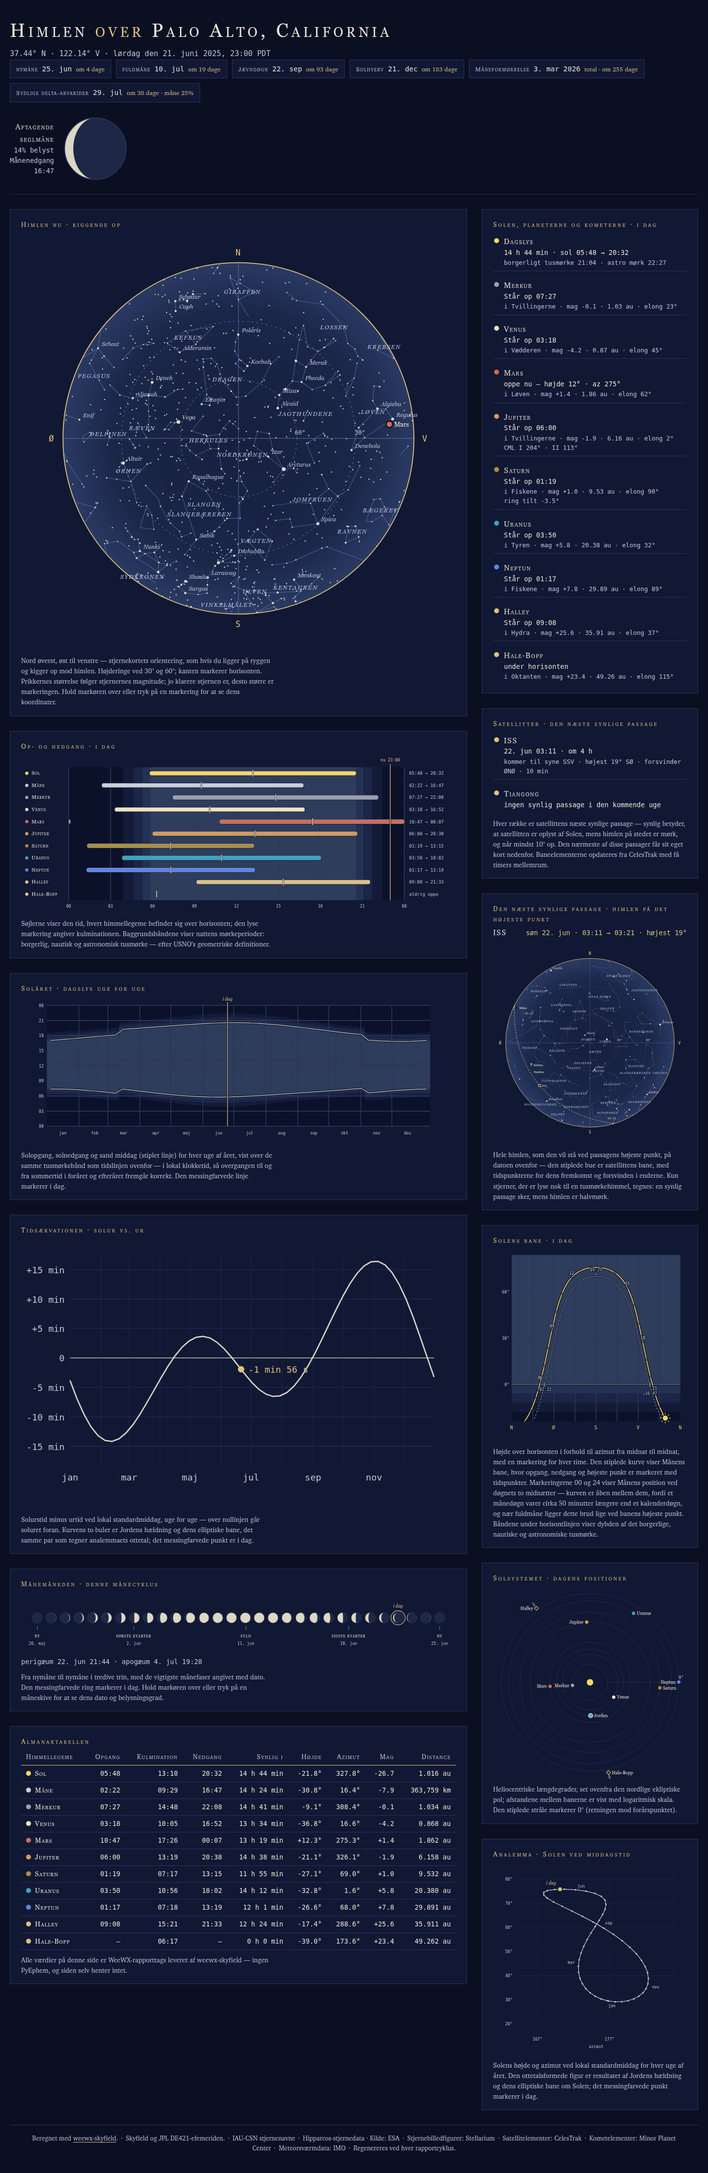
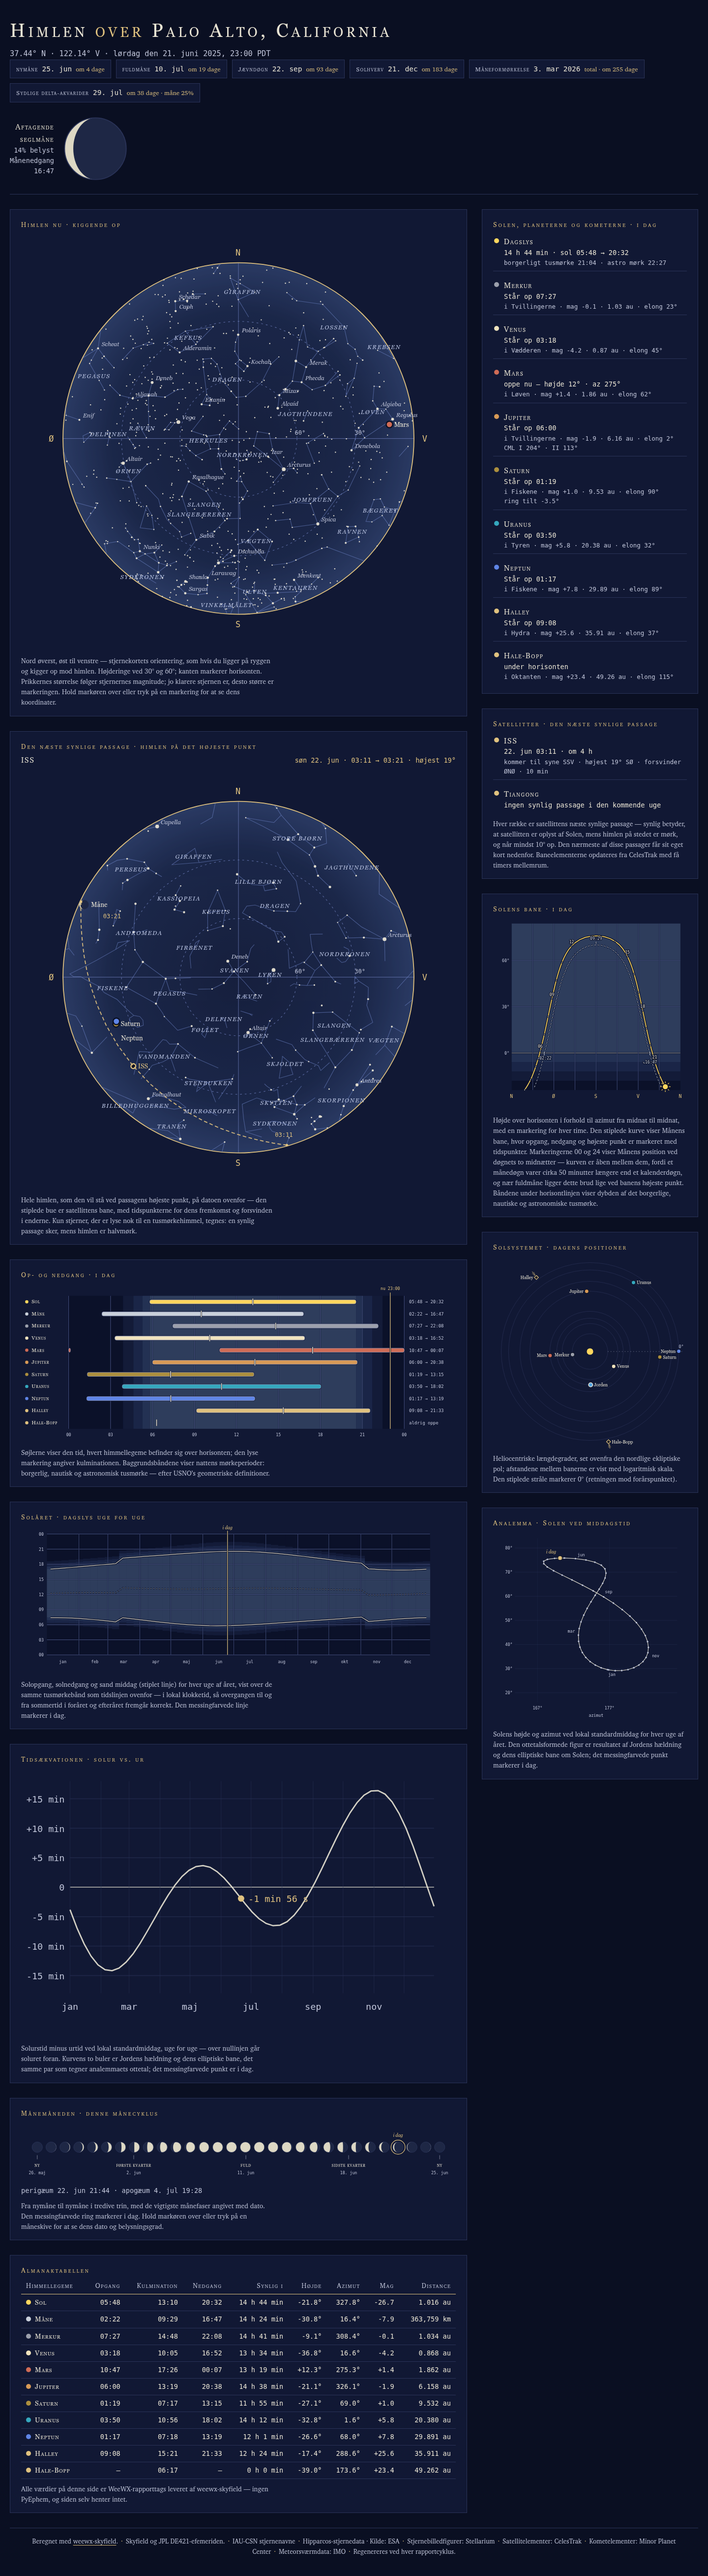
2.7.1: the Sky page's Next Visible Pass chart moves below the sky dome, where there is room to draw it — in the side column it was drawn at 58% of its size and every label on it read at 5.8 pixels

diff --git a/skins/Skyfield/sky.css b/skins/Skyfield/sky.css
@@ -58,7 +58,11 @@ section{background:var(--vault); border:1px solid var(--line); padding:20px 22px
    dissolve (display:contents) and the sections reorder into one column. */
 .main{display:grid; grid-template-columns:minmax(0,1fr) 440px; gap:30px; align-items:start}
 .primary, .rail{display:flex; flex-direction:column; gap:30px; min-width:0}
-.sec-dome svg{max-width:820px; margin:0 auto}
+/* The two sky charts are the same 680-unit drawing and cap together, so
+   they are the same size one above the other.  Uncapped the pass chart
+   would reach 1044px on a wide screen and stand half again as large as
+   the dome above it. */
+.sec-dome svg, .sec-passchart svg{max-width:820px; margin:0 auto}
 @media (max-width: 1159px){
   /* align-items:start would carry over from the grid rule and shrink the
    * flex-column items to fit their content; stretch restores full width */
@@ -70,8 +74,10 @@ section{background:var(--vault); border:1px solid var(--line); padding:20px 22px
   .sec-passchart{order:4} .sec-sunpath{order:5} .sec-ribbons{order:6}
   .sec-daylength{order:7} .sec-eot{order:8} .sec-lunation{order:9}
   .sec-orrery{order:10} .sec-analemma{order:11} .sec-table{order:12}
-  .sec-sunpath svg, .sec-orrery svg, .sec-analemma svg,
-  .sec-passchart svg{max-width:560px; margin:0 auto}
+  /* The pass chart is not a square chart: capping it at 560 drew it at
+     82% with 8.2px labels.  It caps with the dome, beside which it now
+     sits. */
+  .sec-sunpath svg, .sec-orrery svg, .sec-analemma svg{max-width:560px; margin:0 auto}
 }
 /* The two frames.  Every chart panel carries both drawings -- the wide
    one this page has always shown and the narrow one built for a phone

diff --git a/install.py b/install.py
@@ -157,7 +157,7 @@ def loader():
 class WxSkyfieldInstaller(ExtensionInstaller):
     def __init__(self):
         super(WxSkyfieldInstaller, self).__init__(
-            version = "2.7",
+            version = "2.7.1",
             name = 'wxskyfield',
             description = "Replaces WeeWX's built-in almanac with a Skyfield based almanac for report generation.",
             author = "John A Kline",

diff --git a/bin/user/wxskyfield.py b/bin/user/wxskyfield.py
@@ -61,7 +61,7 @@ from weewx.units import ValueTuple
 # get a logger object
 log = logging.getLogger(__name__)
 
-WXSKYFIELD_VERSION = '2.7'
+WXSKYFIELD_VERSION = '2.7.1'
 
 if sys.version_info[0] < 3 or (sys.version_info[0] == 3 and sys.version_info[1] < 9):
     raise weewx.UnsupportedFeature(
